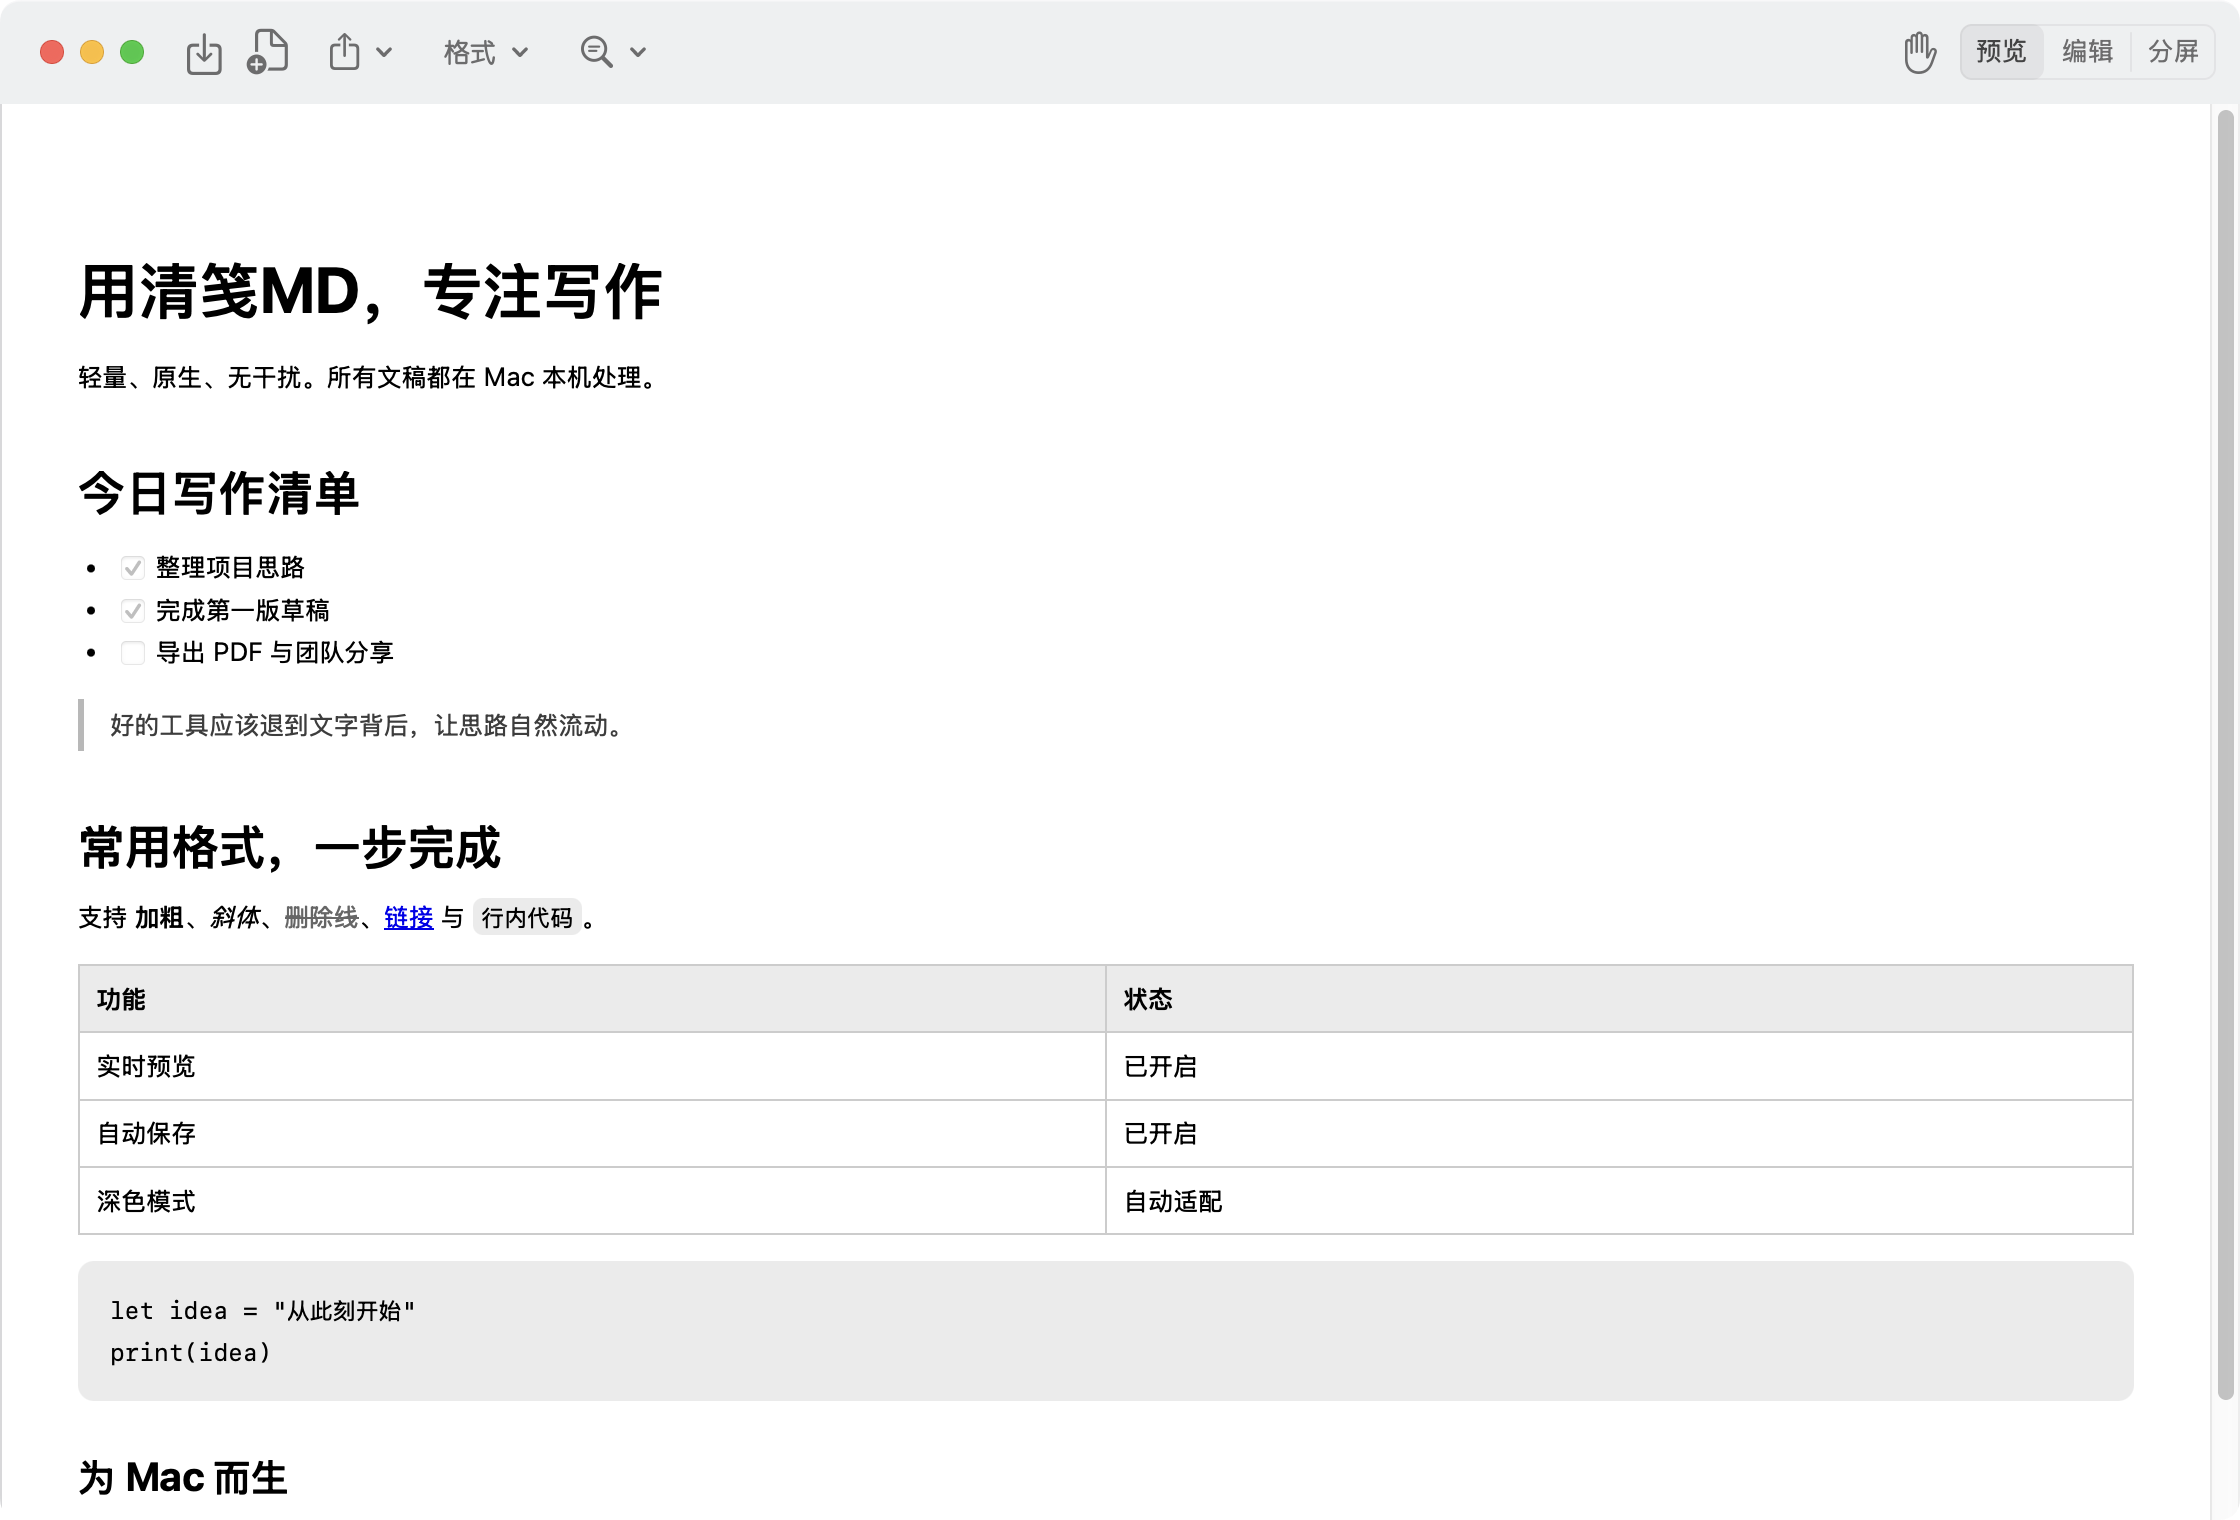
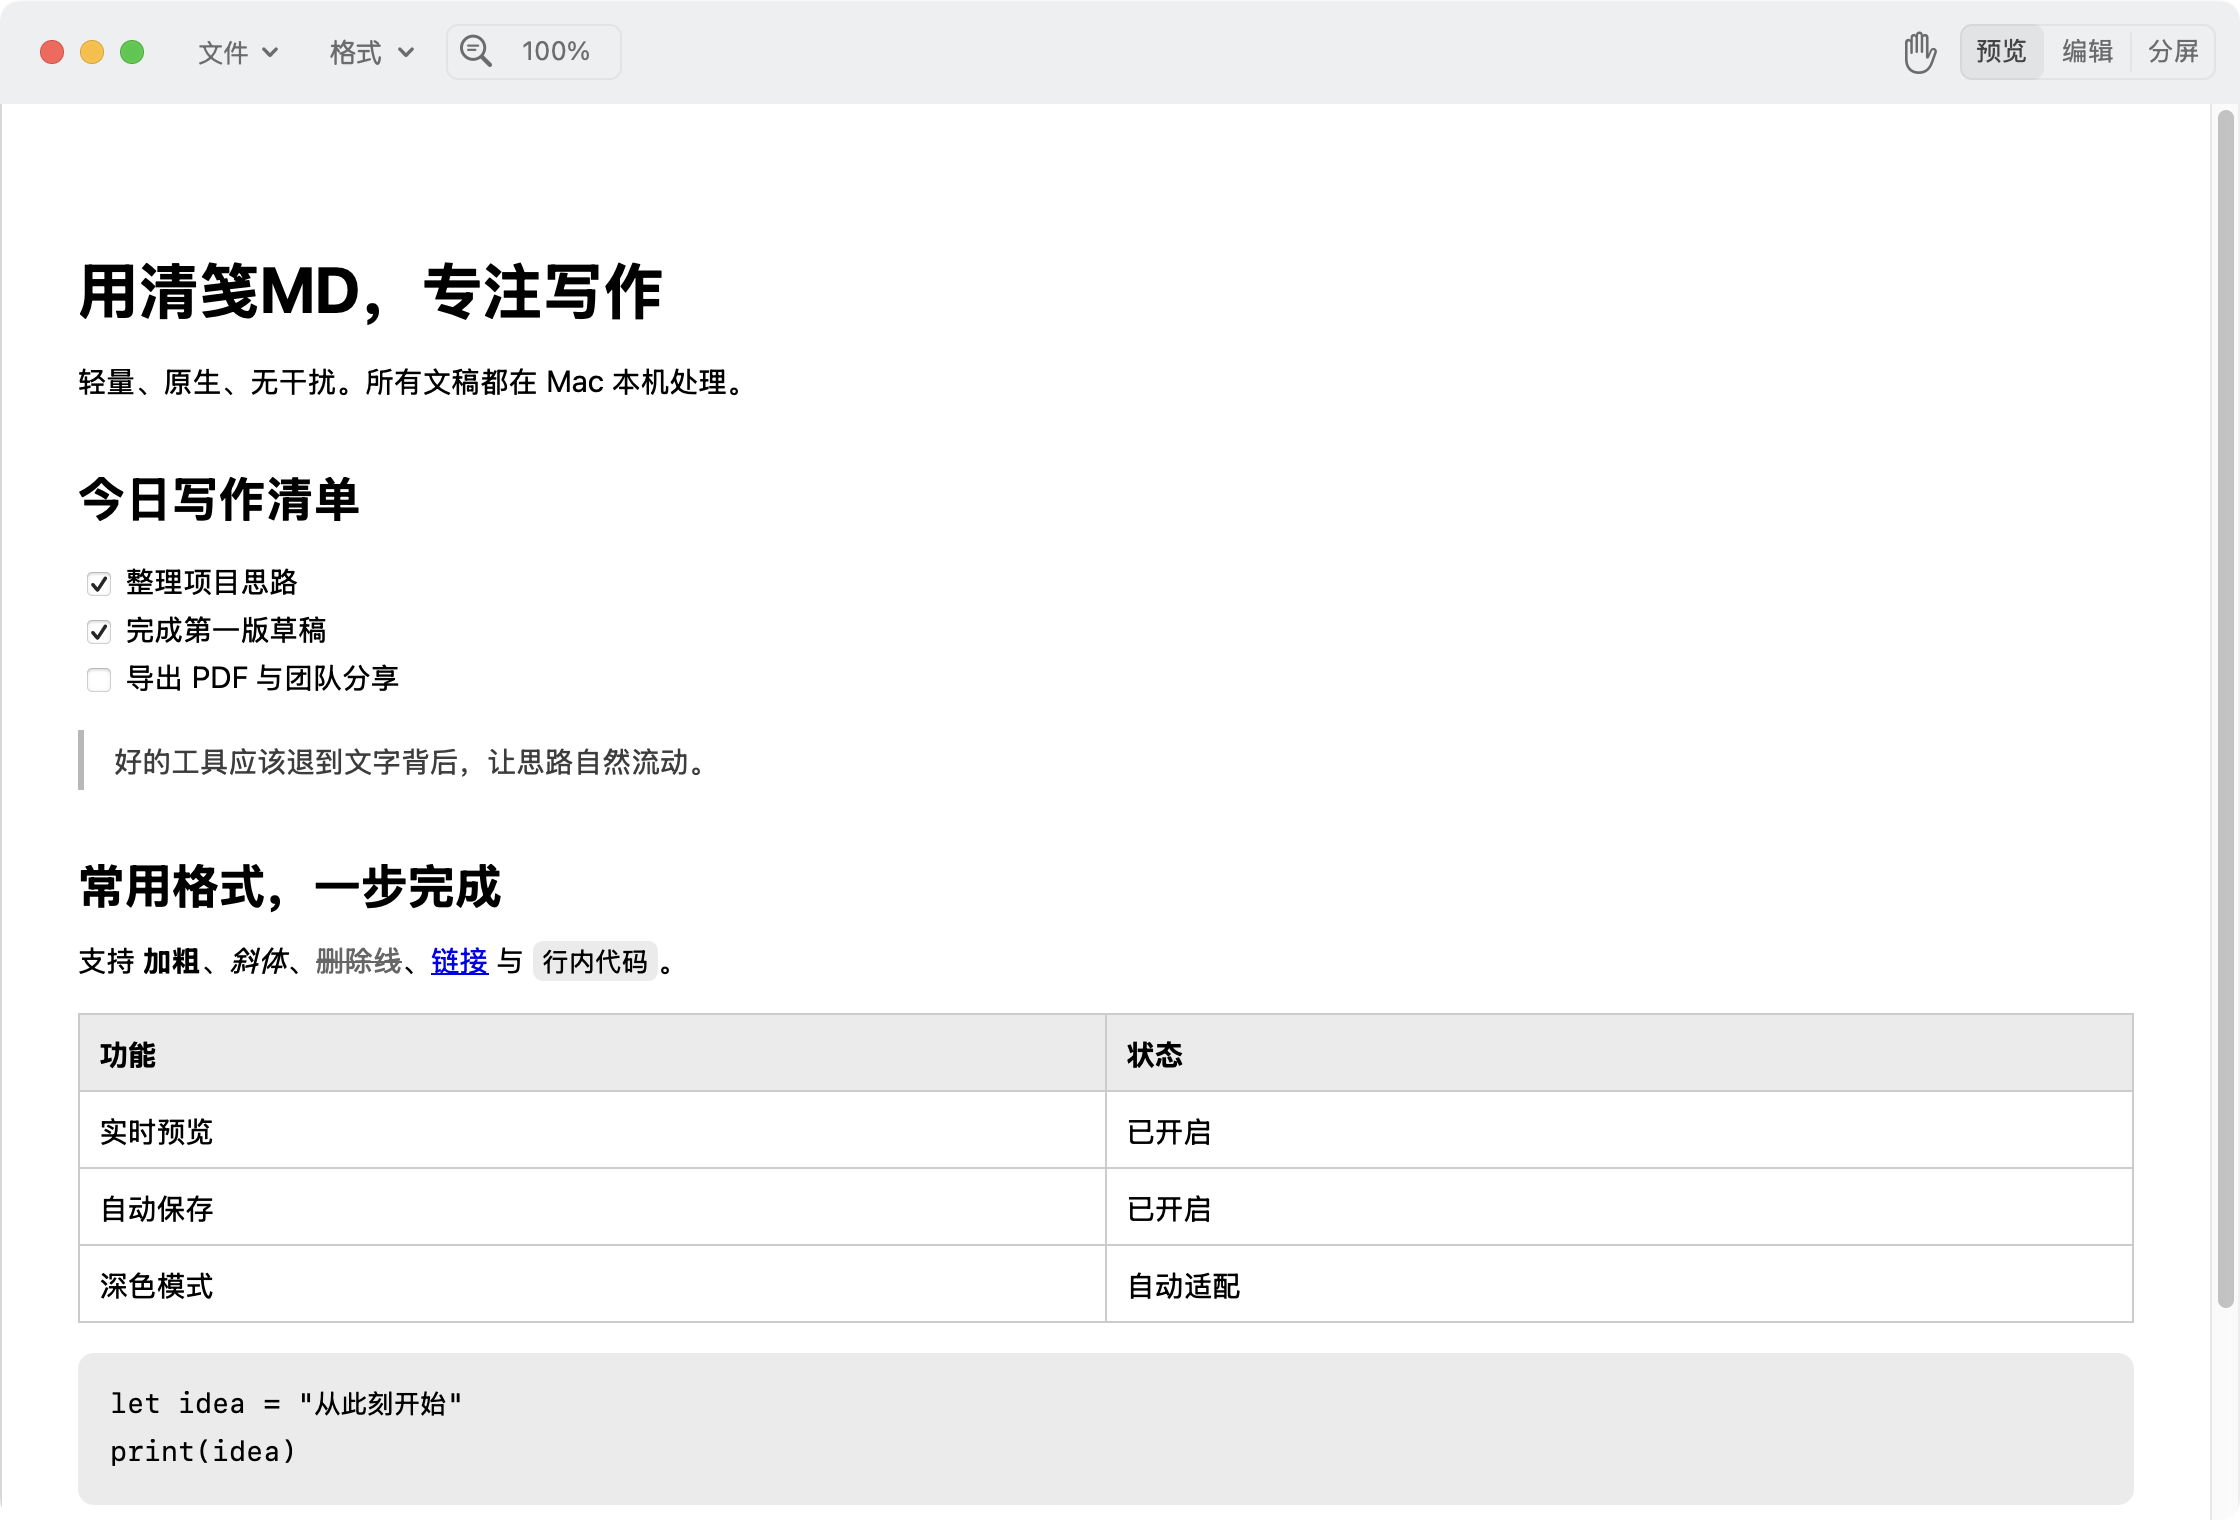
Release beta 3 with streamlined toolbar and interactions

diff --git a/docs/USER_GUIDE.md b/docs/USER_GUIDE.md
@@ -17,6 +17,16 @@
 
 分屏模式下编辑区与预览区可以分别独立滚动，适合一边修改前文，一边查看其他位置的最终排版。
 
+## 文件工具栏
+
+点按顶部“文件”可打开常用文件操作：
+
+- 新建与打开 Markdown 文稿
+- 保存与另存为
+- 导出为 PDF 或 DOCX
+
+顶部不再分散显示多个保存和导出按钮，文件操作统一集中在这一处。
+
 ## Markdown 格式
 
 工具栏的“格式”菜单包含：
@@ -26,9 +36,9 @@
 - 无序列表、有序列表、任务清单
 - 引用、代码块、分隔线
 - 链接、图片、表格、脚注
-- 常用文字颜色与自定义颜色
+- 红、橙、绿、蓝、紫五种常用文字颜色
 
-选择文字后会显示浮动快捷格式条。连续应用同类格式时，清笺MD会更新当前格式，避免重复包裹相同标记。浮动工具条可拖动到不遮挡内容的位置。
+选择文字后，浮动快捷格式条会贴近选区出现。连续应用同类格式时，清笺MD会更新当前格式，避免重复包裹相同标记。五种颜色后的叉号按钮可取消选中文字的颜色。浮动工具条可拖动到不遮挡内容的位置；取消选择后，下次选择文字会重新贴近新的选区。
 
 ## 先选格式再输入
 
@@ -43,6 +53,10 @@
 ```
 
 清笺MD预览可以显示该颜色。其他只支持标准 Markdown 的编辑器可能把颜色标记显示为普通文本。
+
+## 任务清单
+
+使用 `- [ ]` 创建未完成任务，使用 `- [x]` 创建已完成任务。在预览或分屏模式中可以直接点按待办框，清笺MD会即时更新编辑区中的 Markdown 标记并自动保存。
 
 ## 查找与替换
 
@@ -65,7 +79,7 @@
 
 ## 导出
 
-工具栏“导出”菜单支持：
+工具栏“文件”菜单支持：
 
 - **PDF**：适合阅读、打印和分享最终版式。
 - **DOCX**：适合交给 Word 或 WPS 继续编辑。
@@ -74,7 +88,7 @@
 
 ## 缩放与全屏
 
-工具栏“缩放”菜单可以放大、缩小或恢复实际大小。编辑区与预览区会采用一致的缩放比例。使用 macOS 全屏快捷键可进入或退出全屏。
+点按工具栏中的百分比可打开“显示比例”面板。可以选择常用比例、拖动连续滑杆，或使用减号和加号逐级调整。当前百分比始终显示在工具栏中；编辑区与预览区共用同一基准字号和显示比例。使用 macOS 全屏快捷键可进入或退出全屏。
 
 ## 链接
 

diff --git a/CHANGELOG.md b/CHANGELOG.md
@@ -1,5 +1,20 @@
 # 更新记录
 
+## 1.0.0-beta.3 - 2026-07-15
+
+### 新增
+
+- 新增显示比例面板，支持常用比例、连续滑杆及加减按钮。
+- 预览模式中的任务清单现在可以直接勾选或取消，并同步保存到 Markdown 原文。
+
+### 优化
+
+- 浮动快捷格式条默认贴近选中文字出现，并保留自由拖动能力。
+- 快捷颜色精简为红、橙、绿、蓝、紫五种常用颜色。
+- 快捷颜色末尾新增“取消颜色”，支持恢复选中文字的默认颜色。
+- 顶部保存、另存为和导出按钮整合为“文件”下拉菜单，包含新建、打开、保存、另存为、PDF 与 DOCX 导出。
+- 分屏模式的编辑区与预览区共用同一显示比例和基准字号。
+
 ## 1.0.0-beta.2 - 2026-07-15
 
 ### 优化
@@ -16,7 +31,7 @@
 - Markdown 编辑、预览和分屏模式
 - 实时预览与分屏模式
 - 常用 Markdown 格式和浮动快捷格式条
-- 五种快捷颜色与自定义颜色
+- 五种快捷颜色
 - 查找、替换、结果计数与定位
 - 自动保存、另存为、最近文件和多标签页
 - PDF 与 DOCX 导出

diff --git a/RELEASE_NOTES.md b/RELEASE_NOTES.md
@@ -1,12 +1,16 @@
-# 清笺MD 1.0.0 Beta 2
+# 清笺MD 1.0.0 Beta 3
 
-本次测试版重点优化分屏阅读体验：编辑区与预览区现在可以分别独立滚动。
+本次测试版重点改善缩放、任务清单和选中文字后的快捷编辑体验。
 
 ## 亮点
 
 - Finder 双击 `.md` 或 `.markdown` 文件即可打开
 - 预览、编辑、分屏三种模式一键切换
-- 分屏实时预览，编辑区与预览区可分别独立滚动
+- 分屏实时预览，编辑区与预览区可分别滚动并保持相同文字比例
+- 比例预设、连续滑杆、加减按钮组成的显示比例面板
+- 预览模式可直接勾选任务清单，并同步更新 Markdown 原文
+- 快捷格式条贴近选区出现，提供五种常用颜色与一键取消颜色
+- 新的“文件”下拉菜单集中管理新建、打开、保存、另存为和导出
 - macOS 原生窗口、多标签页、自动保存和键盘快捷键
 - 完整常用 Markdown 格式与可移动快捷格式条
 - 导出 PDF 和 DOCX
@@ -15,7 +19,7 @@
 
 ## 下载
 
-下载 `QingjianMD-1.0.0-beta.2-macOS-universal.zip`，解压后将“清笺MD”拖入“应用程序”文件夹。
+下载 `QingjianMD-1.0.0-beta.3-macOS-universal.zip`，解压后将“清笺MD”拖入“应用程序”文件夹。
 
 ## 首次打开
 

diff --git a/README.md b/README.md
@@ -36,11 +36,11 @@
 
 ### 像 Obsidian 一样边写边看
 
-预览、编辑、分屏三种模式一键切换。分屏时左侧写 Markdown，右侧即时显示最终效果；两侧可以分别滚动，查看长文时互不干扰。
+预览、编辑、分屏三种模式一键切换。分屏时左侧写 Markdown，右侧即时显示最终效果；两侧可以分别滚动，并保持一致的文字显示比例。
 
 ### 写作需要的格式，一处就够
 
-内置标题、加粗、斜体、删除线、列表、任务清单、引用、代码、链接、图片、表格和脚注。选择文字后会出现可移动的快捷格式条，连续修改同类格式时会自动替换旧格式。
+内置标题、加粗、斜体、删除线、列表、任务清单、引用、代码、链接、图片、表格和脚注。选择文字后，快捷格式条会贴近选区出现，并可自由拖动；五种常用颜色后提供一键取消颜色，连续修改同类格式时会自动替换旧格式。
 
 ### 从 Markdown 直接交付成品
 
@@ -53,7 +53,10 @@
 ## 功能一览
 
 - Markdown 实时预览与分屏双侧独立滚动
-- 完整常用格式、五种快捷颜色与自定义颜色
+- 完整常用格式与五种精选快捷颜色
+- 文件操作集中在原生“文件”下拉菜单
+- 比例预设、滑杆与加减按钮组合缩放
+- 预览模式直接勾选任务清单
 - 查找、替换、搜索数量和结果定位
 - 自动保存、另存为、最近文件与多标签页
 - PDF、DOCX 导出